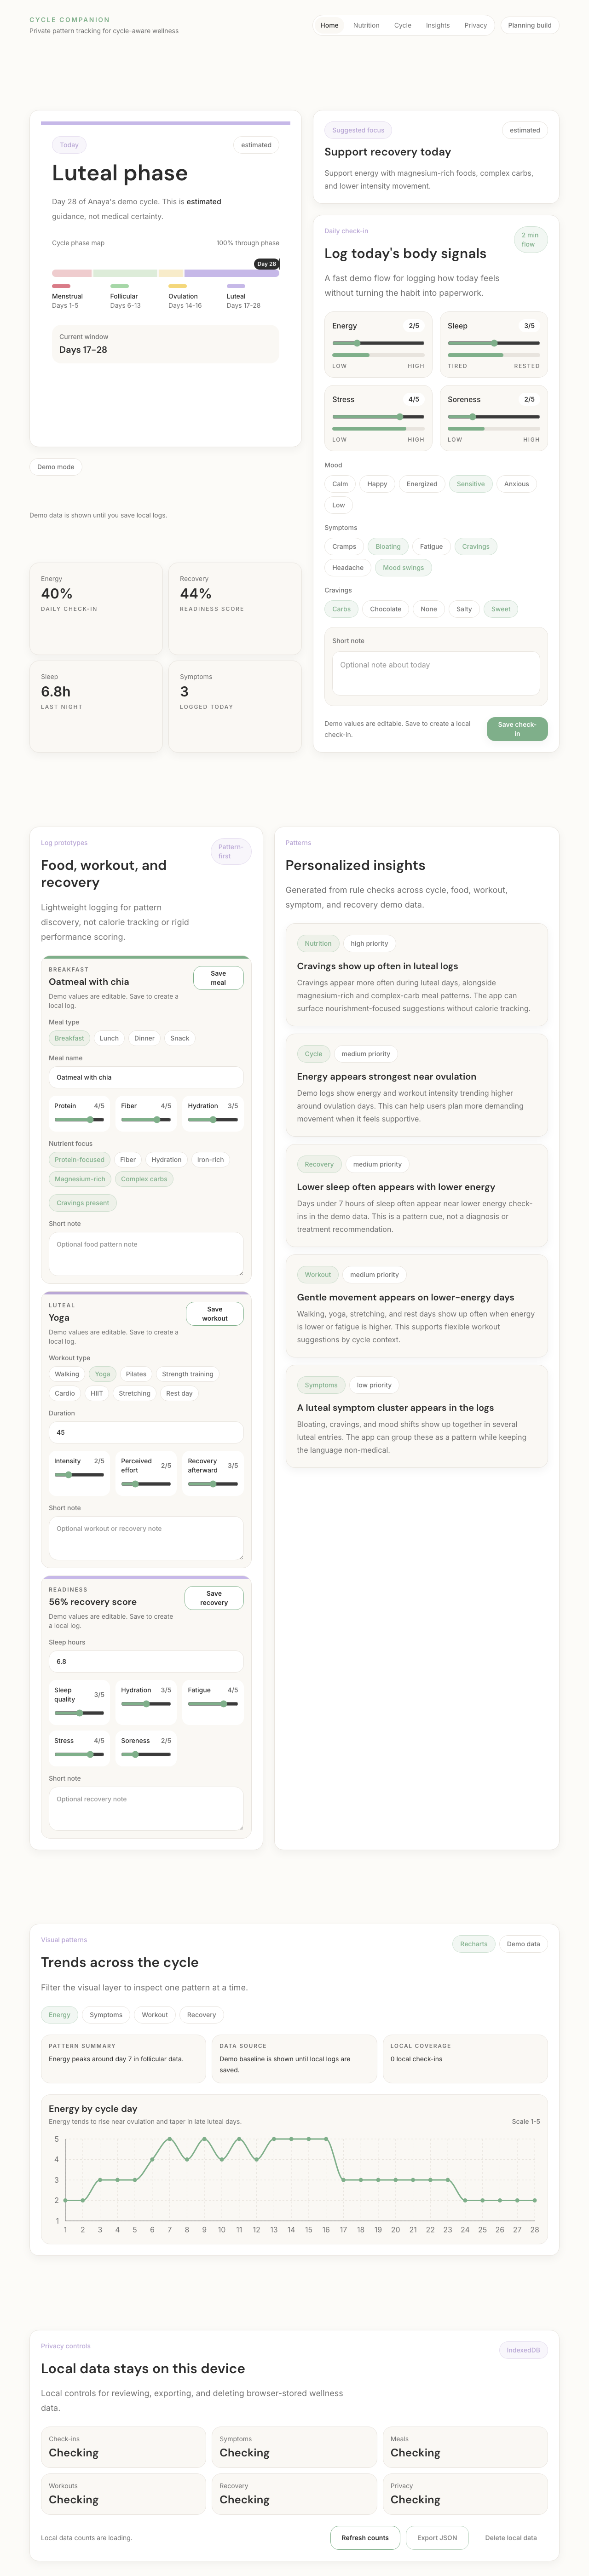
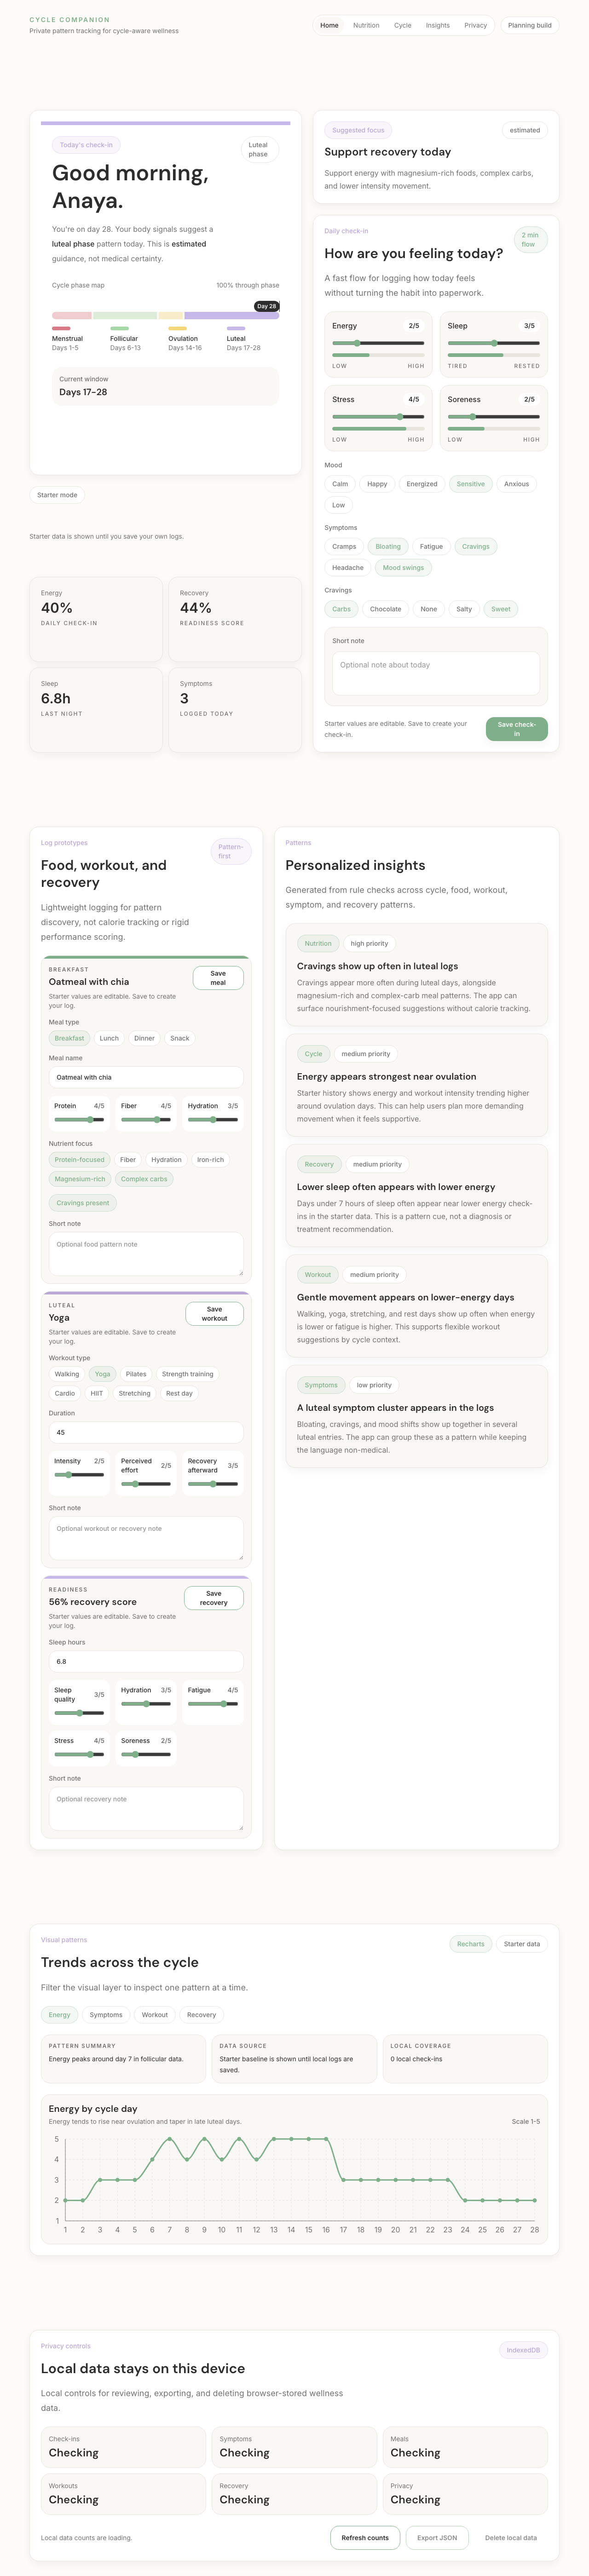
Polish app copy and private beta badge

diff --git a/apps/web/src/features/dashboard/dashboard-shell.tsx b/apps/web/src/features/dashboard/dashboard-shell.tsx
@@ -41,6 +41,7 @@ function formatInsightCategory(insight: Insight) {
 }
 
 export function DashboardShell() {
+  const [dayGreeting] = useState(getTimeBasedGreeting);
   const [localCheckIns, setLocalCheckIns] = useState<DailyCheckIn[]>([]);
   const [localMeals, setLocalMeals] = useState<MealLog[]>([]);
   const [localRecoveryLogs, setLocalRecoveryLogs] = useState<RecoveryLog[]>([]);
@@ -144,18 +145,18 @@ export function DashboardShell() {
     localDataStatus === "local"
       ? "Using local data"
       : localDataStatus === "error"
-        ? "Demo mode"
+        ? "Starter mode"
         : localDataStatus === "loading"
           ? "Checking local data"
-          : "Demo mode";
+          : "Starter mode";
   const localDataMessage =
     localDataStatus === "local"
       ? "Saved browser data is blended into today's dashboard."
       : localDataStatus === "error"
-        ? "Local storage is unavailable, so the dashboard is showing demo data."
+        ? "Local storage is unavailable, so the dashboard is showing starter data."
         : localDataStatus === "loading"
           ? "Checking this browser for saved logs."
-          : "Demo data is shown until you save local logs.";
+          : "Starter data is shown until you save your own logs.";
 
   useEffect(() => {
     void refreshLocalDashboardData({ showLoading: false });
@@ -193,6 +194,7 @@ export function DashboardShell() {
         <div className="grid gap-6">
           <CyclePhaseCard
             cycleDayNumber={cycleSummary.cycleDayNumber}
+            greeting={dayGreeting}
             phase={currentPhase}
             phaseProgress={cycleSummary.phaseProgress}
             predictionConfidence={cycleSummary.predictionConfidence}
@@ -268,7 +270,7 @@ export function DashboardShell() {
 
         <Card id="insights">
           <SectionHeader
-            description="Generated from rule checks across cycle, food, workout, symptom, and recovery demo data."
+            description="Generated from rule checks across cycle, food, workout, symptom, and recovery patterns."
             eyebrow="Patterns"
             title="Personalized insights"
           />
@@ -382,6 +384,15 @@ export function DashboardShell() {
     await refreshLocalDashboardData();
     setLocalDataRevision((revision) => revision + 1);
   }
+}
+
+function getTimeBasedGreeting() {
+  const hour = new Date().getHours();
+
+  if (hour < 12) return "Good morning";
+  if (hour < 17) return "Good afternoon";
+
+  return "Good evening";
 }
 
 function mergeLocalCheckInsForCycle({

diff --git a/apps/web/src/features/dashboard/cycle-phase-card.tsx b/apps/web/src/features/dashboard/cycle-phase-card.tsx
@@ -20,6 +20,7 @@ const phaseClasses: Record<CyclePhase, string> = {
 
 type CyclePhaseCardProps = {
   cycleDayNumber: number;
+  greeting: string;
   phase: CyclePhase;
   phaseProgress: number;
   predictionConfidence: PredictionConfidence;
@@ -28,6 +29,7 @@ type CyclePhaseCardProps = {
 
 export function CyclePhaseCard({
   cycleDayNumber,
+  greeting,
   phase,
   phaseProgress,
   predictionConfidence,
@@ -50,12 +52,16 @@ export function CyclePhaseCard({
       <div className="space-y-8 p-5 sm:p-6">
         <div className="flex flex-col gap-5 sm:flex-row sm:items-start sm:justify-between">
           <div>
-            <Badge tone="secondary">Today</Badge>
+            <Badge tone="secondary">Today&apos;s check-in</Badge>
             <h1 className="mt-3 font-heading text-4xl font-semibold leading-tight text-primary-text sm:text-5xl">
-              {phaseLabels[phase]} phase
+              {greeting}, {userName}.
             </h1>
             <p className="mt-4 max-w-2xl leading-8 text-secondary-text">
-              Day {cycleDayNumber} of {userName}&apos;s demo cycle. This is{" "}
+              You&apos;re on day {cycleDayNumber}. Your body signals suggest a{" "}
+              <span className="font-medium text-primary-text">
+                {phaseLabels[phase].toLowerCase()} phase
+              </span>{" "}
+              pattern today. This is{" "}
               <span className="font-medium text-primary-text">
                 {predictionConfidence}
               </span>{" "}
@@ -63,7 +69,7 @@ export function CyclePhaseCard({
             </p>
           </div>
 
-          <Badge>{predictionConfidence}</Badge>
+          <Badge>{phaseLabels[phase]} phase</Badge>
         </div>
 
         <div className="space-y-4">

diff --git a/apps/web/src/features/dashboard/pattern-visualizations-card.tsx b/apps/web/src/features/dashboard/pattern-visualizations-card.tsx
@@ -229,7 +229,7 @@ export function PatternVisualizationsCard({
 
       {!hasEnoughLocalData && dataMode === "local" ? (
         <PatternNotice
-          message={`Showing demo baseline with ${localCount} local ${getLocalCountLabel(
+          message={`Showing starter baseline with ${localCount} local ${getLocalCountLabel(
             activeView,
           )}. More saved logs will make this view more personal.`}
         />
@@ -586,18 +586,18 @@ function getSymptomSummary(
 
 function getDataModeLabel(dataMode: DataMode) {
   if (dataMode === "local") return "Local + demo";
-  if (dataMode === "error") return "Demo fallback";
+  if (dataMode === "error") return "Starter fallback";
   if (dataMode === "loading") return "Checking data";
 
-  return "Demo data";
+  return "Starter data";
 }
 
 function getDataSourceCopy(dataMode: DataMode) {
-  if (dataMode === "local") return "Saved local logs are blended with demo history.";
-  if (dataMode === "error") return "Storage is unavailable, so demo data is shown.";
+  if (dataMode === "local") return "Saved local logs are blended with starter history.";
+  if (dataMode === "error") return "Storage is unavailable, so starter data is shown.";
   if (dataMode === "loading") return "Checking this browser for saved logs.";
 
-  return "Demo baseline is shown until local logs are saved.";
+  return "Starter baseline is shown until local logs are saved.";
 }
 
 function getLocalCountForView(

diff --git a/apps/web/src/features/dashboard/daily-check-in-card.tsx b/apps/web/src/features/dashboard/daily-check-in-card.tsx
@@ -98,9 +98,9 @@ export function DailyCheckInCard({
     <Card>
       <div className="flex flex-col gap-5 sm:flex-row sm:items-start sm:justify-between">
         <SectionHeader
-          description="A fast demo flow for logging how today feels without turning the habit into paperwork."
+          description="A fast flow for logging how today feels without turning the habit into paperwork."
           eyebrow="Daily check-in"
-          title="Log today's body signals"
+          title="How are you feeling today?"
         />
         <Badge tone="primary">2 min flow</Badge>
       </div>
@@ -404,5 +404,5 @@ function getSaveMessage(
   }
   if (hasSavedLocalData) return "Loaded from local browser storage.";
 
-  return "Demo values are editable. Save to create a local check-in.";
+  return "Starter values are editable. Save to create your check-in.";
 }

diff --git a/apps/web/src/core/insights/insight-engine.ts b/apps/web/src/core/insights/insight-engine.ts
@@ -140,7 +140,7 @@ function buildEnergyPeakInsight({
     userId,
     title: "Energy appears strongest near ovulation",
     message:
-      "Demo logs show energy and workout intensity trending higher around ovulation days. This can help users plan more demanding movement when it feels supportive.",
+      "Starter history shows energy and workout intensity trending higher around ovulation days. This can help users plan more demanding movement when it feels supportive.",
     category: "cycle",
     priority: "medium",
     sources: ["cycle", "daily_check_in", "workouts"],
@@ -224,7 +224,7 @@ function buildLowSleepEnergyInsight({
     userId,
     title: "Lower sleep often appears with lower energy",
     message:
-      "Days under 7 hours of sleep often appear near lower energy check-ins in the demo data. This is a pattern cue, not a diagnosis or treatment recommendation.",
+      "Days under 7 hours of sleep often appear near lower energy check-ins in the starter data. This is a pattern cue, not a diagnosis or treatment recommendation.",
     category: "recovery",
     priority: "medium",
     sources: ["daily_check_in", "recovery"],

diff --git a/apps/web/src/features/dashboard/local-data-controls-card.tsx b/apps/web/src/features/dashboard/local-data-controls-card.tsx
@@ -199,11 +199,11 @@ function getStateMessage({
   state: LocalDataState;
 }) {
   if (confirmClear) {
-    return "Click confirm delete to remove all local browser data for this demo.";
+    return "Click confirm delete to remove all local browser data for this app.";
   }
   if (state === "loading") return "Checking local browser storage...";
   if (!hasCounts) return "Local data counts are loading.";
-  if (!hasLocalData) return "No local logs saved yet. Demo data is still shown.";
+  if (!hasLocalData) return "No local logs saved yet. Starter data is still shown.";
   if (state === "ready") return "Local data counts are up to date.";
   if (state === "exported") return "Export created from local browser data.";
   if (state === "cleared") return "Local browser data has been deleted.";

diff --git a/apps/web/src/components/layout/app-shell.tsx b/apps/web/src/components/layout/app-shell.tsx
@@ -51,7 +51,7 @@ export function AppShell({ activeHref = "/", children }: AppShellProps) {
               </ul>
             </nav>
 
-            <Badge>Planning build</Badge>
+            <Badge>Private beta</Badge>
           </div>
         </header>
 

diff --git a/apps/web/src/features/dashboard/logging-prototypes-card.tsx b/apps/web/src/features/dashboard/logging-prototypes-card.tsx
@@ -650,7 +650,7 @@ function getSaveMessage(saveState: SaveState, hasSavedLocalData: boolean) {
   if (saveState === "error") return "Could not save locally. Try again.";
   if (hasSavedLocalData) return "Loaded from local browser storage.";
 
-  return "Demo values are editable. Save to create a local log.";
+  return "Starter values are editable. Save to create your log.";
 }
 
 function toIntensityLevel(value: number): IntensityLevel {

diff --git a/apps/web/src/features/settings/privacy-preferences-card.tsx b/apps/web/src/features/settings/privacy-preferences-card.tsx
@@ -181,5 +181,5 @@ function getStatusMessage(saveState: SaveState, updatedAt: string) {
     return "Privacy preferences are loaded from this browser.";
   }
 
-  return "Default privacy preferences are active for this demo.";
+  return "Default privacy preferences are active for this app.";
 }

diff --git a/Cycle Tracker App Case Study/docs/011-implementation-steps.md b/Cycle Tracker App Case Study/docs/011-implementation-steps.md
@@ -200,3 +200,17 @@ This file tracks the actual build steps in a simple, concise way.
 - Added live demo placeholder to the public README.
 - Added Open Graph and Twitter metadata with a dashboard preview image.
 - Reason: the project should be easy to deploy, share, and review from a live URL.
+
+## Step 29: Deploy Live Demo
+
+- Deployed the app to Vercel.
+- Added the production URL to the README and deployment notes.
+- Verified the live URL returns successfully.
+- Reason: reviewers should be able to open the app without cloning the repo.
+
+## Step 30: Make Dashboard Copy Feel App-Like
+
+- Replaced demo-cycle hero copy with a time-aware greeting.
+- Reframed starter data as user-facing baseline copy.
+- Updated the daily check-in prompt to ask how the user feels today.
+- Reason: the dashboard should feel like a real wellness app, not a static demo.

diff --git a/README.md b/README.md
@@ -4,7 +4,7 @@ Privacy-first wellness dashboard for tracking patterns across cycle phase, food,
 
 This is a portfolio project focused on polished product design, local-first data handling, responsible health-adjacent UX, and clear technical architecture.
 
-Live demo: coming soon.
+Live demo: https://personal-health-platform.vercel.app
 
 ## Screenshots
 
@@ -71,7 +71,7 @@ npm run build
 ## Project Notes
 
 - Sensitive wellness data stays local-first.
-- Demo data is separate from local user logs.
+- Starter data is separate from local user logs.
 - The app avoids fertility prediction, diagnosis, treatment advice, and medical claims.
 
 Deeper docs:

diff --git a/docs/deployment.md b/docs/deployment.md
@@ -2,6 +2,8 @@
 
 Target: Vercel free tier.
 
+Production URL: https://personal-health-platform.vercel.app
+
 ## Vercel Settings
 
 - Root directory: `apps/web`
@@ -14,7 +16,7 @@ Target: Vercel free tier.
 Optional:
 
 ```text
-NEXT_PUBLIC_SITE_URL=https://your-vercel-url.vercel.app
+NEXT_PUBLIC_SITE_URL=https://personal-health-platform.vercel.app
 ```
 
 Use the final production URL after the first deployment.